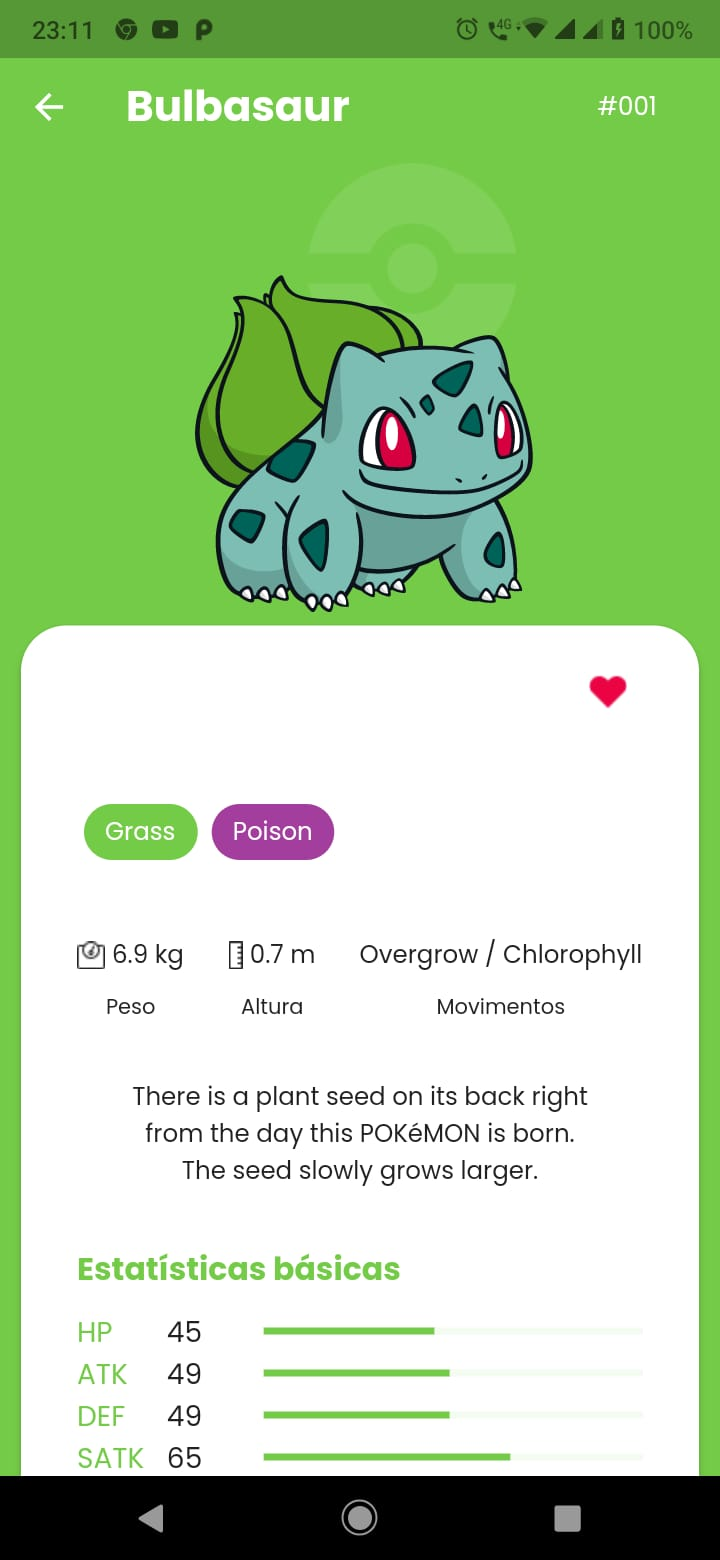
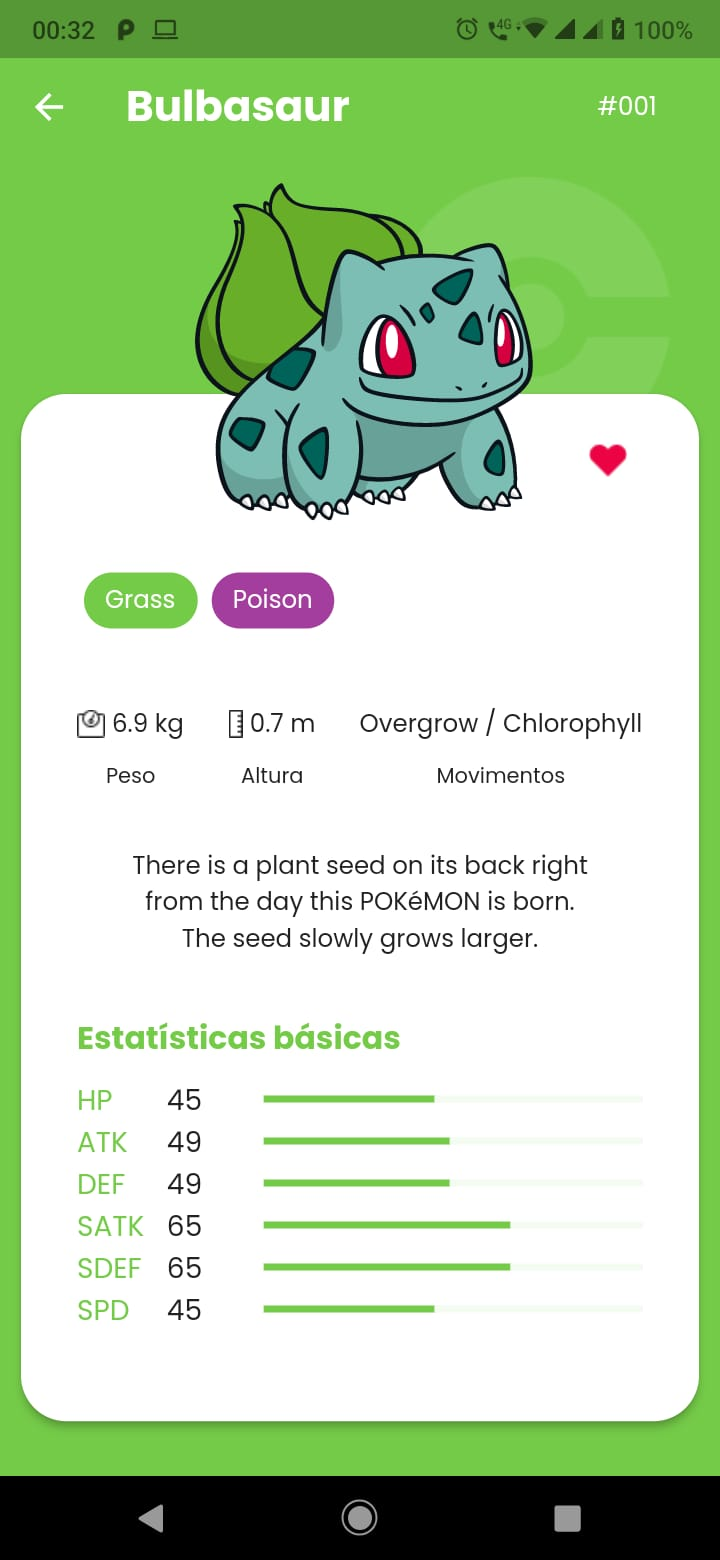
add Stack in pokemon_details_screen.dart

diff --git a/lib/modules/pokemon/presentation/pokemon_details/pokemon_details_screen.dart b/lib/modules/pokemon/presentation/pokemon_details/pokemon_details_screen.dart
@@ -1,4 +1,3 @@
-import 'package:flutter/cupertino.dart';
 import 'package:flutter/material.dart';
 import 'package:flutter_mobx/flutter_mobx.dart';
 import 'package:flutter_modular/flutter_modular.dart';
@@ -93,152 +92,155 @@ class _PokemonDetailsScreenState
                 child: SingleChildScrollView(
                   child: Padding(
                     padding: const EdgeInsets.only(
-                      top: 20,
+                      top: 12,
                       left: 8,
                       right: 8,
-                      bottom: 20,
+                      bottom: 80,
                     ),
-                    child: Column(
+                    child: Stack(
                       children: [
-                        Stack(
-                          children: [
-                            Positioned(
-                              top: 10,
-                              right: 10,
-                              child: Image.asset(
-                                PokemonConstantsImages.pokeball,
-                                height: 120,
-                                width: 120,
-                                color: Colors.white.withOpacity(1),
-                                colorBlendMode: BlendMode.modulate,
-                              ),
-                            ),
-                            Padding(
-                              padding: const EdgeInsets.only(
-                                top: 70,
-                              ),
-                              child: SizedBox(
-                                width: 200,
-                                height: 200,
-                                child: SvgPicture.network(
-                                  widget.pokemon.image,
-                                  placeholderBuilder: (context) =>
-                                      const LoadingWidget(
-                                          colorCircularProgressIndicator:
-                                              PokedexConstantsColors
-                                                  .primaryColor),
-                                ),
-                              ),
-                            ),
-                          ],
-                        ),
-                        Card(
-                          elevation: 4,
-                          color: widget.backgroundColorCard,
-                          shape: RoundedRectangleBorder(
-                            borderRadius: BorderRadius.circular(26),
-                          ),
+                        Align(
+                          alignment: Alignment.topRight,
                           child: Padding(
                             padding: const EdgeInsets.only(
-                              left: 32,
-                              right: 32,
+                              right: 20,
                             ),
-                            child: Column(
-                              crossAxisAlignment: CrossAxisAlignment.start,
-                              children: [
-                                const SizedBox(
-                                  height: 18,
-                                ),
-                                Row(
-                                  mainAxisAlignment: MainAxisAlignment.end,
-                                  children: [
-                                    GestureDetector(
-                                      onTap: () {
-                                        controller.togglePokemonFavorite(
-                                            widget.pokemon);
-                                      },
-                                      child: Observer(builder: (context) {
-                                        final isFavoritePokemon =
-                                            controller.isPokemonFavorite;
-                                        if ((isFavoritePokemon == true &&
-                                                isFavoritePokemon != null) ||
-                                            widget.pokemon.isFavorite) {
-                                          return const Image(
-                                            height: 40,
-                                            width: 40,
-                                            image: AssetImage(
-                                              PokemonConstantsImages.heart,
-                                            ),
-                                          );
-                                        } else {
-                                          return const Image(
-                                            height: 40,
-                                            width: 40,
-                                            image: AssetImage(
-                                              PokemonConstantsImages.emptyHeart,
-                                            ),
-                                          );
-                                        }
-                                      }),
+                            child: Image.asset(
+                              PokemonConstantsImages.pokeball,
+                              height: 160,
+                              width: 160,
+                              color: Colors.white.withOpacity(1),
+                              colorBlendMode: BlendMode.modulate,
+                            ),
+                          ),
+                        ),
+                        Padding(
+                          padding: const EdgeInsets.only(
+                            top: 120,
+                          ),
+                          child: Card(
+                            elevation: 4,
+                            color: widget.backgroundColorCard,
+                            shape: RoundedRectangleBorder(
+                              borderRadius: BorderRadius.circular(26),
+                            ),
+                            child: Padding(
+                              padding: const EdgeInsets.only(
+                                left: 32,
+                                right: 32,
+                              ),
+                              child: Column(
+                                crossAxisAlignment: CrossAxisAlignment.start,
+                                children: [
+                                  const SizedBox(
+                                    height: 18,
+                                  ),
+                                  Row(
+                                    mainAxisAlignment: MainAxisAlignment.end,
+                                    children: [
+                                      GestureDetector(
+                                        onTap: () {
+                                          controller.togglePokemonFavorite(
+                                              widget.pokemon);
+                                        },
+                                        child: Observer(builder: (context) {
+                                          final isFavoritePokemon =
+                                              controller.isPokemonFavorite;
+                                          if ((isFavoritePokemon == true &&
+                                                  isFavoritePokemon != null) ||
+                                              widget.pokemon.isFavorite) {
+                                            return const Image(
+                                              height: 40,
+                                              width: 40,
+                                              image: AssetImage(
+                                                PokemonConstantsImages.heart,
+                                              ),
+                                            );
+                                          } else {
+                                            return const Image(
+                                              height: 40,
+                                              width: 40,
+                                              image: AssetImage(
+                                                PokemonConstantsImages
+                                                    .emptyHeart,
+                                              ),
+                                            );
+                                          }
+                                        }),
+                                      ),
+                                    ],
+                                  ),
+                                  const SizedBox(
+                                    height: 32,
+                                  ),
+                                  PokemonTypeListWidget(
+                                    pokemonModel: widget.pokemon,
+                                  ),
+                                  const SizedBox(
+                                    height: 32,
+                                  ),
+                                  PokemonCharacteristicsWidget(
+                                    pokemonHeight: widget.pokemon.height,
+                                    pokemonWeight: widget.pokemon.weight,
+                                    pokemonAbilityList:
+                                        widget.pokemon.abilityList,
+                                    backgroundColorCard:
+                                        widget.backgroundColorCard,
+                                    textColor: textsColor,
+                                  ),
+                                  const SizedBox(
+                                    height: 32,
+                                  ),
+                                  Center(
+                                    child: Text(
+                                      widget.pokemon.description,
+                                      textAlign: TextAlign.center,
+                                      style: TextStyle(
+                                          fontSize: 14, color: textsColor),
                                     ),
-                                  ],
-                                ),
-                                const SizedBox(
-                                  height: 32,
-                                ),
-                                PokemonTypeListWidget(
-                                  pokemonModel: widget.pokemon,
-                                ),
-                                const SizedBox(
-                                  height: 32,
-                                ),
-                                PokemonCharacteristicsWidget(
-                                  pokemonHeight: widget.pokemon.height,
-                                  pokemonWeight: widget.pokemon.weight,
-                                  pokemonAbilityList:
-                                      widget.pokemon.abilityList,
-                                  backgroundColorCard:
-                                      widget.backgroundColorCard,
-                                  textColor: textsColor,
-                                ),
-                                const SizedBox(
-                                  height: 32,
-                                ),
-                                Center(
-                                  child: Text(
-                                    widget.pokemon.description,
-                                    textAlign: TextAlign.center,
+                                  ),
+                                  const SizedBox(
+                                    height: 32,
+                                  ),
+                                  Text(
+                                    S
+                                        .of(context)
+                                        .pokemonDetailsScreenBaseStatsText,
                                     style: TextStyle(
-                                        fontSize: 14, color: textsColor),
+                                      color:
+                                          pokemonBackgroundColorScaffoldByFirstType,
+                                      fontSize: 18,
+                                      fontWeight: FontWeight.bold,
+                                    ),
                                   ),
-                                ),
-                                const SizedBox(
-                                  height: 32,
-                                ),
-                                Text(
-                                  S
-                                      .of(context)
-                                      .pokemonDetailsScreenBaseStatsText,
-                                  style: TextStyle(
-                                    color:
+                                  const SizedBox(
+                                    height: 10,
+                                  ),
+                                  PokemonStatListWidget(
+                                    pokemonStatList: widget.pokemon.statList,
+                                    pokemonBackgroundColorByFirstType:
                                         pokemonBackgroundColorScaffoldByFirstType,
-                                    fontSize: 18,
-                                    fontWeight: FontWeight.bold,
+                                    textColor: textsColor,
                                   ),
-                                ),
-                                const SizedBox(
-                                  height: 10,
-                                ),
-                                PokemonStatListWidget(
-                                  pokemonStatList: widget.pokemon.statList,
-                                  pokemonBackgroundColorByFirstType:
-                                      pokemonBackgroundColorScaffoldByFirstType,
-                                  textColor: textsColor,
-                                ),
-                                const SizedBox(
-                                  height: 52,
-                                ),
-                              ],
+                                  const SizedBox(
+                                    height: 52,
+                                  ),
+                                ],
+                              ),
+                            ),
+                          ),
+                        ),
+                        Align(
+                          alignment: Alignment.topCenter,
+                          child: SizedBox(
+                            width: 200,
+                            height: 200,
+                            child: SvgPicture.network(
+                              widget.pokemon.image,
+                              placeholderBuilder: (context) =>
+                                  const LoadingWidget(
+                                      colorCircularProgressIndicator:
+                                          PokedexConstantsColors.primaryColor),
                             ),
                           ),
                         ),
